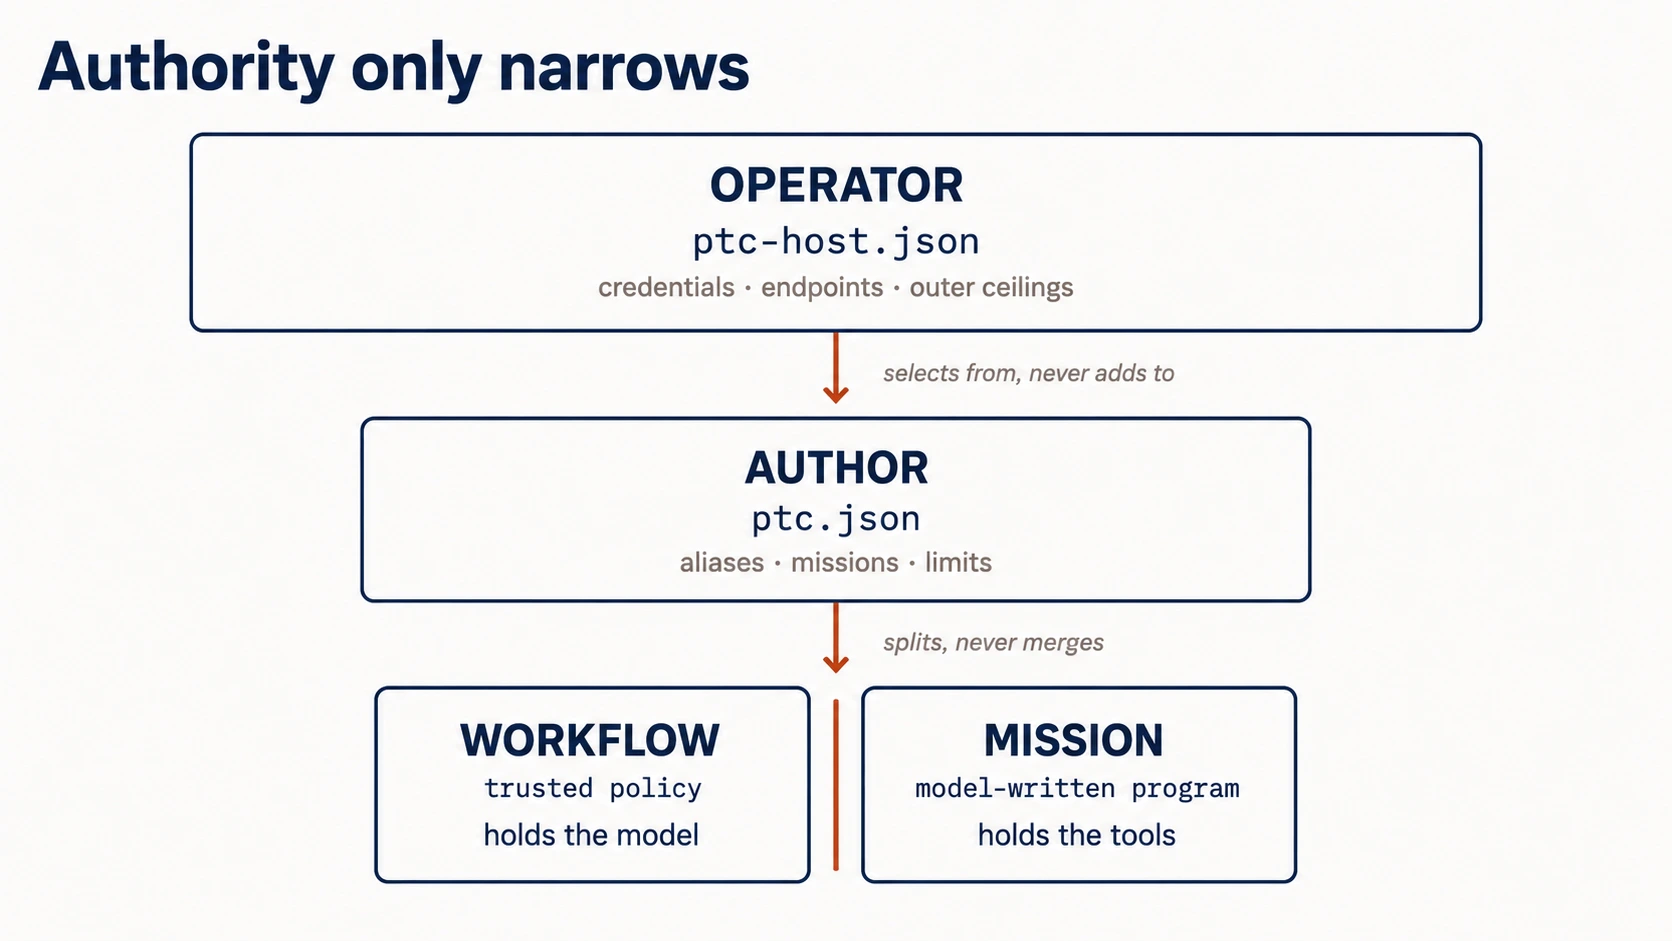
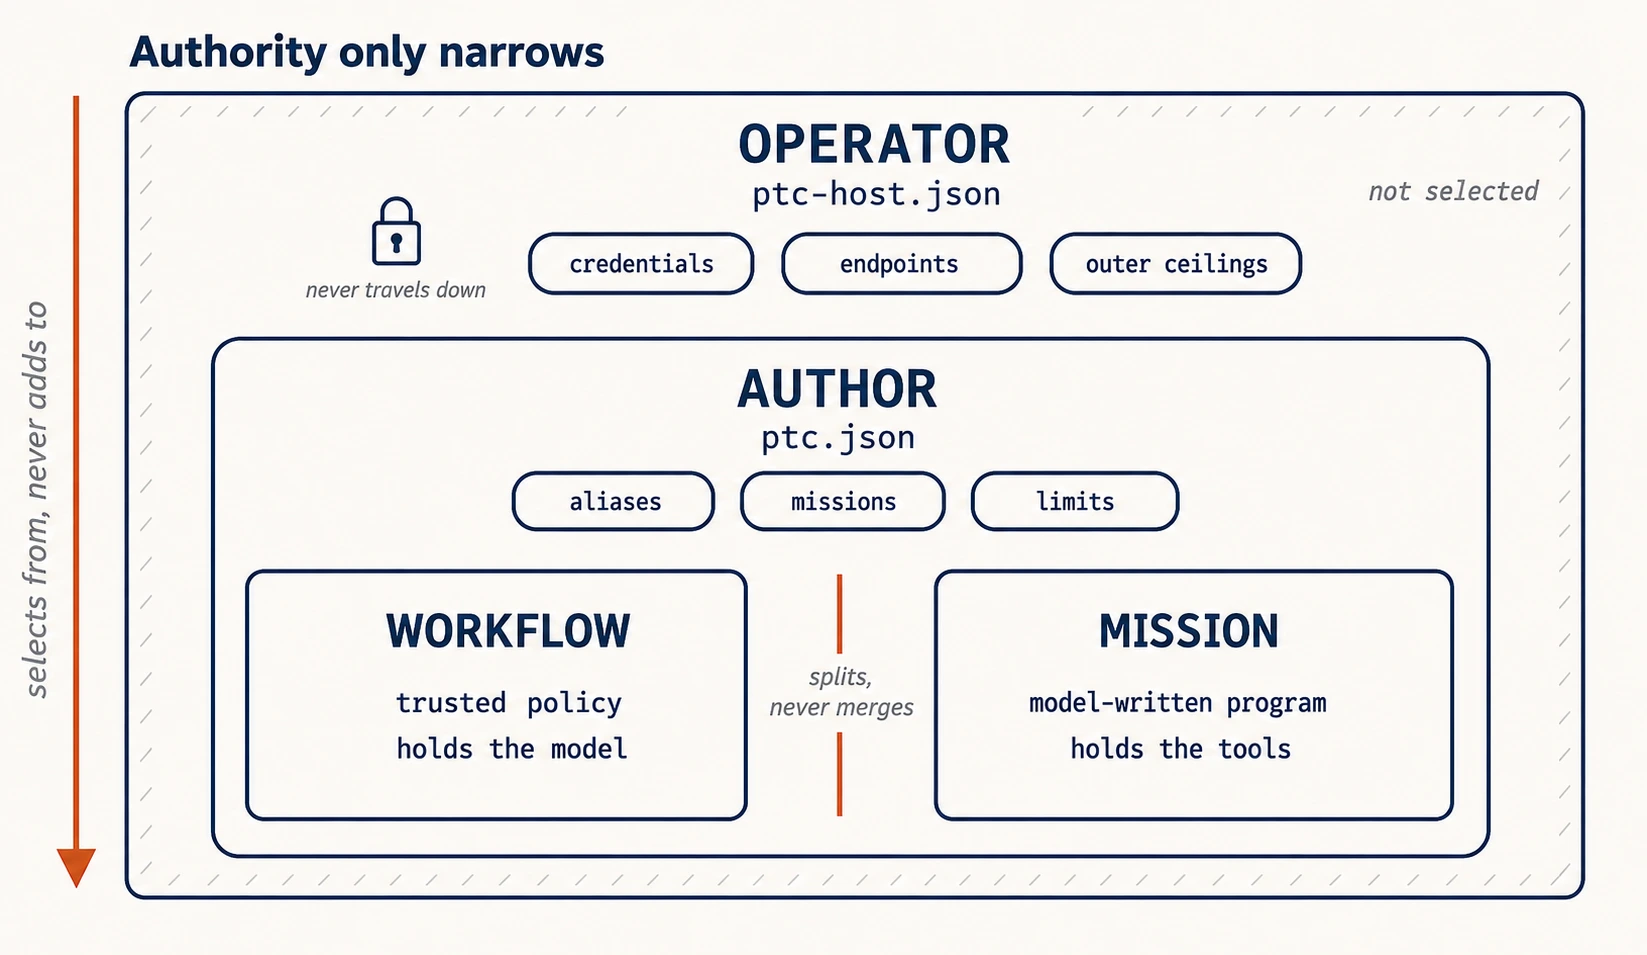
docs(site): rework the front page around the self-improvement thesis
Lead with 'the loop is a library, not the runtime': a system that improves
itself must be able to change itself, and elsewhere the loop is host code, so
self-modification and privilege escalation are the same act. Code mode drops to
one clause. Move the plain-language explanation of a bounded language into
'Bounded in what it can do', where it introduces the authority diagram.

Add 'Will the model write it?': PTC-Lisp is a bounded Clojure plus signatures,
the job is short REPL-style programs, and the reader should benchmark it
themselves.

Replace site/authority-narrows.webp with a nested-containment diagram that
shows the unselected authority as a hatched remainder instead of asserting the
narrowing in the title. Update its alt text, dimensions, and the prompt and
replacement checks in docs/maintainers/site.md.

README omits the implementation language where the site names it, because the
documentation-neutrality gate covers README.md.

diff --git a/site/index.html b/site/index.html
@@ -4,7 +4,7 @@
 <meta charset="utf-8">
 <meta name="viewport" content="width=device-width, initial-scale=1">
 <title>PtcRunner</title>
-<meta name="description" content="PtcRunner is a runtime for Code Mode agents: the model writes a small, bounded program that calls several approved tools, and the runtime executes it under explicit limits and records what happened.">
+<meta name="description" content="PtcRunner is a runtime for self-improving agents: the agent loop is a replaceable library, not the runtime, so you can change what an agent does without expanding what it may do.">
 <link rel="canonical" href="https://ptc-runner.dev/">
 <meta property="og:title" content="PtcRunner">
 <meta property="og:description" content="A runtime for Code Mode agents. Bounded programs, explicit limits, recorded evidence.">
@@ -95,40 +95,50 @@
 
 <header>
   <h1>PtcRunner</h1>
-  <p class="kicker">A runtime for Code Mode agents</p>
+  <p class="kicker">A runtime for self-improving agents</p>
 </header>
 
 <p class="lead"><strong>Build AI agents that are bounded in what they can do, easy to
 change, observable in operation, and designed to improve from evidence.</strong></p>
 
-<h2>Code mode you run yourself</h2>
+<h2>The loop is a library, not the runtime</h2>
 
-<p>Agents usually call one tool per model turn. That is slow, and every result lands in
-the context window.</p>
+<p>A system that improves itself has to be able to change itself. In most frameworks the
+agent loop is host code, so changing the agent means editing privileged code, and
+self-modification and privilege escalation become the same act.</p>
 
-<p>Let the model write a small program instead. It calls several approved tools, filters
-and combines the results, and returns only what matters. The pattern is called code mode,
-or programmatic tool calling, and several products now offer it.</p>
+<p>Here the loop is an ordinary library, written in the same bounded language the model
+writes its own programs in. Everything about the agent is replaceable, and nothing
+replaceable carries authority. You can change what the agent does without expanding what it
+may do.</p>
 
-<p>PtcRunner is a version you run yourself, built around the execution boundary. The
-generated program has no shell, no filesystem, no network, and no package installs. It
-reaches the world only through tools you granted, under limits you set. Each run is a
-lightweight process rather than a container, so one machine holds thousands at once.</p>
+<p>That language is also how tools get called: the model writes one small program instead of
+taking twenty turns, the part usually called code mode. Every run leaves a structured trace.
+Replay holds the model fixed, so a change can be measured against its baseline instead of
+guessed at. A candidate arrives with evidence, and a human decides whether it ships.</p>
 
-<p>You normally do not write the program. You provide the task, model, approved tools,
-data, and limits; PtcRunner runs it and leaves a structured trace you can replay and
-compare.</p>
+<p>One executable, with its own runtime inside. No language to install, no sandbox to stand
+up.</p>
 
 <h2>Bounded in what it can do</h2>
 
+<p>Bounded means there is no way out of the language. No <code>import</code>, no
+<code>open</code>, no <code>fetch</code>, no shell. A program can use what you passed in and
+the tools you approved, and nothing else. A sandbox works the other way round: it starts
+with a language that can do anything and takes the dangerous parts away one by one. Miss one
+and you have a breach. Here there is nothing to miss.</p>
+
 <figure class="diagram">
-  <img src="/authority-narrows.webp" width="1672" height="941"
-       alt="Authority only narrows. A full-width box labelled OPERATOR, ptc-host.json, holding
-            credentials, endpoints, and outer ceilings. An arrow down to a narrower box labelled
-            AUTHOR, ptc.json, holding aliases, missions, and limits, captioned 'selects from,
-            never adds to'. A second arrow, captioned 'splits, never merges', leads to two
-            separated boxes: WORKFLOW, trusted policy, holds the model; and MISSION, the
-            model-written program, holds the tools.">
+  <img src="/authority-narrows.webp" width="1647" height="955"
+       alt="Authority only narrows. Three nested boxes. The outermost is OPERATOR,
+            ptc-host.json, holding credentials, endpoints, and outer ceilings; a padlock beside
+            credentials is captioned 'never travels down', and the part of this box not covered
+            by the one inside it is hatched and labelled 'not selected'. Inside it sits a
+            narrower AUTHOR box, ptc.json, holding aliases, missions, and limits. Inside that,
+            two boxes stand side by side with a gap between them, captioned 'splits, never
+            merges': WORKFLOW, trusted policy, holds the model; and MISSION, the model-written
+            program, holds the tools. An arrow down the left margin spans all three layers,
+            labelled 'selects from, never adds to'.">
   <figcaption>Every layer selects from the one above it and can only narrow. The operator installs
   authority, the author selects from it, and the model-written program runs inside what is
   left.</figcaption>
@@ -158,28 +168,18 @@ own, and doing so grants no new authority.</p>
 
 <h2>Will the model write it?</h2>
 
-<p>Yes. PTC-Lisp is not a new language to learn. It is a bounded Clojure &mdash; 236 of the
-250 <code>clojure.core</code> names in its audited target &mdash; plus type signatures,
-checked on the way in and on the way out.</p>
+<p>Yes, and it is not a new language to learn. PTC-Lisp is a bounded Clojure with type
+signatures, checked on the way in and on the way out.</p>
 
-<p>The job is narrow: short programs, written turn by turn in a REPL-style loop, against
-typed signatures. That is not the same as writing a large application. In my experience
-over the past year, the ranking of languages changes once you narrow it that way.</p>
+<p>The job is also narrower than writing an application: short programs, one turn at a time
+in a REPL-style loop, against typed signatures. Narrow it that way and the ranking of
+languages changes.</p>
 
-<p>Corpus size matters less than it looks. The callable surface is small enough to hand the
-model in full, so it never guesses which library exists. A mistake is a value and costs one
-expression, not the run. A signature violation names the field to fix. And there is nothing
-ambient to reach for: a model fluent in Python reaches for <code>open</code>,
-<code>requests</code> and <code>subprocess</code>, and a sandbox has to block each one. Here
-there is nothing to block.</p>
+<p>Models handle niche languages better than their share of the training data suggests.
+PtcRunner itself is a large codebase, written mostly by models over half a year, in Elixir.</p>
 
-<p>Small languages can do well at this. A study across 20 languages put Elixir first, ahead
-of much larger corpora; Dashbit's
-<a href="https://dashbit.co/blog/why-elixir-best-language-for-ai">Why Elixir is the best
-language for AI</a> has the numbers.</p>
-
-<p>The tutorials here run on a small, cheap model by default. Better still: point it at your
-own tasks and measure.</p>
+<p>The tutorials here run on a small, cheap model by default. Point it at your own tasks and
+measure.</p>
 
 <h2>Improves from evidence</h2>
 

diff --git a/docs/maintainers/site.md b/docs/maintainers/site.md
@@ -97,29 +97,32 @@ match the other reads as a mistake on the page.
 
 ### `site/authority-narrows.webp`
 
-> A clean flat vector technical diagram, editorial infographic style, on a warm
-> off-white background (#FBFAF8). Composition: a centered vertical funnel of
-> three stages, each visibly narrower than the one above it, with generous white
-> space and wide margins. Title, top left, large bold dark ink: "Authority only
-> narrows". Stage 1 (widest, full width): a rounded rectangle with a thin
-> deep-navy outline. Bold label "OPERATOR". Below it in monospace:
-> "ptc-host.json". Below that, smaller warm grey: "credentials · endpoints ·
-> outer ceilings". A short downward rust-orange arrow to stage 2, with small
-> italic text beside it: "selects from, never adds to". Stage 2 (about 75%
-> width): same rounded rectangle style. Bold label "AUTHOR". Monospace:
-> "ptc.json". Smaller warm grey: "aliases · missions · limits". A second
-> downward rust-orange arrow, with small italic text beside it: "splits, never
-> merges". Stage 3 (about 55% width): two rounded rectangles side by side,
-> separated by one thick vertical rust-orange line. Left box: bold "WORKFLOW",
-> then "trusted policy", then "holds the model". Right box: bold "MISSION", then
-> "model-written program", then "holds the tools". Style: flat 2D vector,
-> technical documentation aesthetic, thin 2px strokes, no gradients, no 3D, no
-> drop shadows, no glow. Palette strictly deep navy (#1F3A5F), rust orange
-> (#9A4A1E), warm grey (#6B6459) on warm off-white. Crisp geometric shapes,
-> precise alignment, correctly spelled text. 16:9 aspect ratio.
+> A clean flat vector technical diagram, wide landscape, no 3D, no gradients,
+> no shadows, no photorealism. Warm off-white background (#F8F5EF). Title, upper
+> left, bold geometric sans, deep navy (#1B2A4A): "Authority only narrows".
+> THREE NESTED ROUNDED RECTANGLES, each visibly smaller and inset within the
+> previous one, showing containment. 1. Outermost, near full width, navy 2px
+> outline, label centred at its top: "OPERATOR" in bold sans, beneath it
+> "ptc-host.json" in monospace, beneath that a row of three small pill chips:
+> "credentials", "endpoints", "outer ceilings". A small padlock glyph beside
+> "credentials" with tiny italic caption: "never travels down". 2. Inset inside
+> it, roughly 70% of its width, navy outline: "AUTHOR", "ptc.json" in monospace,
+> three chips: "aliases", "missions", "limits". The area of the outer rectangle
+> NOT covered by this one is filled with light grey diagonal hatching, labelled
+> once in small grey italic: "not selected". 3. Inside the AUTHOR rectangle, two
+> separate rounded rectangles side by side with a clear vertical gap between
+> them, never touching: left — "WORKFLOW", "trusted policy", "holds the model";
+> right — "MISSION", "model-written program", "holds the tools". In the gap, a
+> short vertical burnt-orange rule with small italic label: "splits, never
+> merges". Down the left margin, one slim burnt-orange (#C4562A) arrow running
+> top to bottom across all three layers, with vertical italic label: "selects
+> from, never adds to". Typography: bold geometric sans for layer names and
+> title, monospace for filenames, small grey italic for annotations. Palette
+> limited to navy, burnt orange, warm off-white, and one grey for the hatching.
+> Generous white space, crisp thin strokes, everything aligned to a grid.
 
-The generated PNG was 1672x941 and 969 KB. What ships is
-`cwebp -q 92 <original>.png -o site/authority-narrows.webp` — 83 KB, verified
+The generated PNG was 1647x955 and 1.2 MB. What ships is
+`cwebp -q 92 <original>.png -o site/authority-narrows.webp` — 104 KB, verified
 free of ringing on the smallest text at 2x. Re-encode from an original rather
 than from the WebP if the diagram is ever regenerated.
 
@@ -129,11 +132,12 @@ than cosmetic:
 - **Every label must be spelled exactly.** The filenames `ptc-host.json` and
   `ptc.json` are the whole point; a dropped hyphen is wrong on a page about
   exact documents.
-- **The two bottom boxes may share the width of the box above them.** That is
-  not a failed funnel. The author selects both `providers.workflow` and
-  `providers.mission`, so the split divides that authority into two disjoint
-  halves, each narrower than what was selected. A strict funnel would wrongly
-  imply the two environments draw from one shrinking pool.
+- **The nesting and the hatching are the argument.** Each layer sits inside the
+  one above it, and the hatched band left around the author box is the authority
+  that was not selected. Drop the remainder and the picture asserts narrowing
+  instead of showing it. The two innermost boxes may span the full width of the
+  author box: the split divides selected authority into two disjoint halves, it
+  does not shrink it again.
 
 The image carries a light background in both themes. A dark-mode variant would
 need a second render with the background at `#16150F` and text at `#ECE7DD`,

diff --git a/README.md b/README.md
@@ -3,23 +3,26 @@
 **Build AI agents that are bounded in what they can do, easy to change,
 observable in operation, and designed to improve from evidence.**
 
-Agents usually call one tool per model turn. That is slow, and every result
-lands in the context window.
+## The loop is a library, not the runtime
 
-Let the model write a small program instead. It calls several approved tools,
-filters and combines the results, and returns only what matters. The pattern is
-called code mode, or programmatic tool calling, and several products now offer
-it.
+A system that improves itself has to be able to change itself. In most
+frameworks the agent loop is host code, so changing the agent means editing
+privileged code, and self-modification and privilege escalation become the same
+act.
 
-PtcRunner is a version you run yourself, built around the execution boundary.
-The generated program has no shell, no filesystem, no network, and no package
-installs. It reaches the world only through tools you granted, under limits you
-set. Each run is a lightweight process rather than a container, so one machine
-holds thousands at once.
+Here the loop is an ordinary library, written in the same bounded language the
+model writes its own programs in. Everything about the agent is replaceable,
+and nothing replaceable carries authority. You can change what the agent does
+without expanding what it may do.
 
-You normally do not write the program. You provide the task, model, approved
-tools, data, limits, and agent components. PtcRunner runs it and leaves a
-structured trace you can replay and compare.
+That language is also how tools get called: the model writes one small program
+instead of taking twenty turns, the part usually called code mode. Every run
+leaves a structured trace. Replay holds the model fixed, so a change can be
+measured against its baseline instead of guessed at. A candidate arrives with
+evidence, and a human decides whether it ships.
+
+One executable, with its own runtime inside. No language to install, no sandbox
+to stand up.
 
 > PtcRunner is a 0.x project under active development. Breaking changes are
 > expected.
@@ -118,26 +121,27 @@ yourself is an advanced option, not an onboarding requirement.
 
 ## Will the model write it?
 
-Yes. PTC-Lisp is not a new language to learn. It is a bounded Clojure —
-[236 of the 250 `clojure.core` names in its audited target](docs/conformance/index.md)
-— plus type signatures, checked on the way in and on the way out.
+Yes, and it is not a new language to learn. PTC-Lisp is a bounded Clojure with
+type signatures, checked on the way in and on the way out.
 
-The job is narrow: short programs, written turn by turn in a REPL-style loop,
-against typed signatures. That is not the same as writing a large application.
-In my experience over the past year, the ranking of languages changes once you
-narrow it that way.
+The job is also narrower than writing an application: short programs, one turn
+at a time in a REPL-style loop, against typed signatures. Narrow it that way
+and the ranking of languages changes.
 
-Corpus size matters less than it looks. The callable surface is small enough to
-hand the model in full, so it never guesses which library exists. A mistake is a
-value and costs one expression, not the run. A signature violation names the
-field to fix. And there is nothing ambient to reach for: a model fluent in
-Python reaches for `open`, `requests`, and `subprocess`, and a sandbox has to
-block each one. Here there is nothing to block.
+Models handle niche languages better than their share of the training data
+suggests. PtcRunner itself is a large codebase, written mostly by models over
+half a year, in a language well outside the popular ones.
 
-The tutorials here run on a small, cheap model by default. Better still: point
-it at your own tasks and measure.
+The tutorials here run on a small, cheap model by default. Point it at your own
+tasks and measure.
 
 ## Constrain
+
+Bounded means there is no way out of the language. No `import`, no `open`, no
+`fetch`, no shell. A program can use what you passed in and the tools you
+approved, and nothing else. A sandbox works the other way round: it starts with
+a language that can do anything and takes the dangerous parts away one by one.
+Miss one and you have a breach. Here there is nothing to miss.
 
 Generated mission code has no ambient access to the filesystem, network,
 processes, a shell, package installation, or a general-purpose host language.
